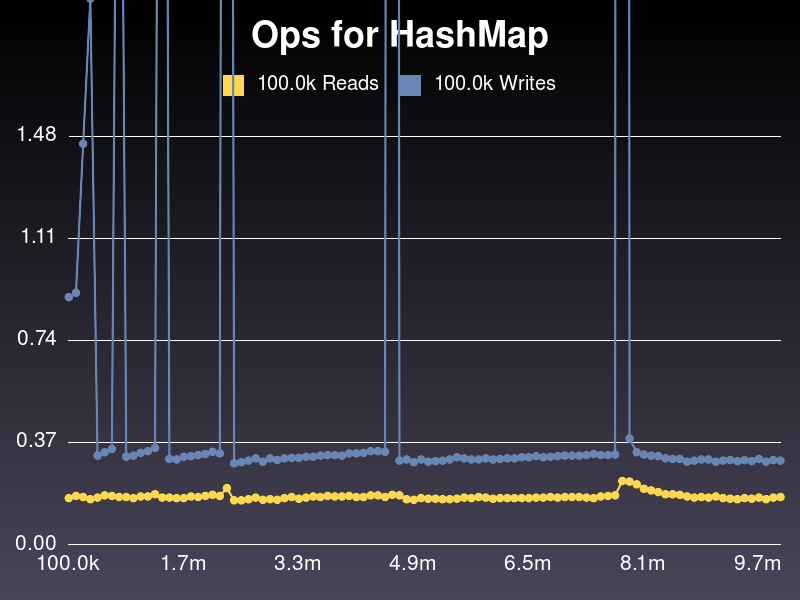
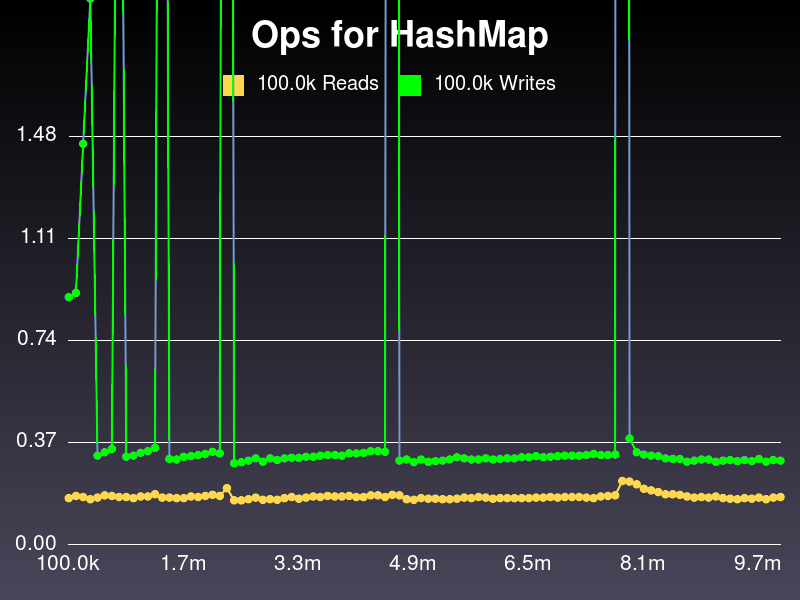
More tweaks before conference

Changed region(s): [[0.125, 0.0, 1.0, 0.78], [0.0625, 0.0, 0.1562, 0.51]]

diff --git a/custom_style.css b/custom_style.css
@@ -1,6 +1,7 @@
 .content .attribution { 
   display: block;
   font-size: 0.5em;
+  color: #999;
 }
 .content img.sidebyside {
   width: 40%;

diff --git a/TODO.md b/TODO.md
@@ -1,41 +1,5 @@
-# TODO
-
-## Talk about https://en.wikipedia.org/wiki/Amortized_analysis
-
-Yeah
-
-## Explain how hash internals relate to databases
-
-Mention database applications. Riak, Cassandra, Voldemort are based on Dynamo. "Like Dynamo, Riak employs consistent hashing to partition and replicate data around the ring."
-
-Dynamo: "Each data item identified by a key is assigned to a node by hashing the data item’s key to yield its position on the ring, and then walking the ring clockwise to find the first node with a position larger than the item’s position. Thus, each node becomes responsible for the region in the ring between it and its predecessor node on the ring. The principle advantage of consistent hashing is that departure or arrival of a node only affects its immediate neighbors and other nodes remain unaffected."
-
-"Scalability: Riak automatically distributes data around the cluster and yields a near-linear performance increase as you add capacity." I might compare this by saying: "Hashes automatically distribute data around the sparse array and yield a near-linear performance increase as you increase the size of the sparse array."
-
-In both cases, you pay a linear performance penalty at the moment you redistribute keys. In case of servers, this is O(N) whether you're adding 1 server or 100. But the more you add at a time, the less often you'll have to add them.
-
-## Investigate Rubinius Hash
-
-- Benchmark with it and see if it performs well
-- If so, step through it and see what secrets I can glean
-
-Also test jRuby's just for fun.
-
-## Ideas to incporporate
-
-- From http://www.cs.cornell.edu/courses/cs312/2008sp/lectures/lec20.html
-  - "a sophisticated implementation can defer the O(n) cost of resizing its hash tables to a point in time when it is convenient to incur it: for example, when the system is idle."
-  - "Load factor" is average elements per bucket = keys.count/sparse_array.length. That's typically the measure for when to rehash; "between 1 and 3" is suggested. Too high and performance suffers; too low and memory is wasted.
-  - A really sophisticated hash would also size down to save memory if enough keys are deleted.
-  - "Because resizing is not visible to the client, it is a benign side effect. Each resizing operation takes O(n) time where n is the size of the hash table being resized. Therefore the O(1) performance of the hash table operations no longer holds in the case of add: its worst-case performance is O(n)."
-  - THE BEST QUOTE: "Each resizing operation takes O(n) time where n is the size of the hash table being resized. Therefore the O(1) performance of the hash table operations no longer holds in the case of add: its worst-case performance is O(n).
-This isn't as much of a problem as it might sound, though it can be an issue for some real-time computing systems. If the bucket array is doubled in size every time it is needed, then the insertion of n elements in a row into an empty array takes only O(n) time, perhaps surprisingly. We say that add has O(1) amortized run time because the time required to insert an element is O(1) on the average even though some elements trigger a lengthy rehashing of all the elements of the hash table.
-To see why this is, suppose we insert n elements into a hash table while doubling the number of buckets when the load factor crosses some threshold. A given element may be rehashed many times, but the total time to insert the n elements is still O(n). Consider inserting n = 2k elements, and suppose that we hit the worst case, where the resizing occurs on the very last element. Since the bucket array is being doubled at each rehashing, the rehashes must all occur at powers of two. The final rehash rehashes all n elements, the previous one rehashes n/2 elements, the one previous to that n/4 elements, and so on. So the total number of hashes computed is n hashes for the actual insertions of the elements, plus n + n/2 + n/4 + n/8 + ... = n(1 + 1/2 + 1/4 + 1/8 + ...) = 2n hashes, for a total of 3n hashing operations.
-No matter how many elements we add to the hash table, there will be at most three hashing operations performed per element added. Therefore, add takes amortized O(1) time even if we start out with a bucket array of one element!"
-- "Notice that it was crucial that the array size grows geometrically (doubling). It is tempting to grow the array by a fixed increment (e.g., 100 elements at time), but this causes n elements to be rehashed O(n) times on average, resulting in O(n2) asymptotic insertion time!"
-
-I declare my hash a success because 1) all hash tables take O(n) time to rehash, including the native Ruby implementation; it is faster and hence has a shallower slope, but it's unavoidably a linear operation, 2) that's OK because the amortized time is still O(1), 3) if we really wanted to get fancy, we could do the work in a thread or something so that you don't feel the insertion lag, 4) if you had a pretty good idea how many keys you would insert, you could start the sparse array large enough so that you didn't have to rehash at all.
-
-## Presentation
-
-- Side-by-side graph comparison - draw lines
+- Decide high points to hit if run out of time
+- Streamline production of raw hash values, maybe cut Critter or just describe as practical application
+- Maybe cut disk vs RAM? Or just describe very briefly. "Because RAM is awesome. On a spinning disk, data that's far away takes longer to get to, but RAM is 'random access'; you just light up the wires to the right address and you get your value in constant time. All you have to know is the address. And Ruby does know the address of an array element."
+- Change writes from blue to "spring" green in Acorn
+- Zoom on surveillance van writing?

diff --git a/notes/more_info.md b/notes/more_info.md
@@ -1,0 +1,25 @@
+# Background Info
+
+## Amortized Analysis
+
+- https://en.wikipedia.org/wiki/Amortized_analysis
+- From http://www.cs.cornell.edu/courses/cs312/2008sp/lectures/lec20.html
+  - "a sophisticated implementation can defer the O(n) cost of resizing its hash tables to a point in time when it is convenient to incur it: for example, when the system is idle."
+  - "Load factor" is average elements per bucket = keys.count/sparse_array.length. That's typically the measure for when to rehash; "between 1 and 3" is suggested. Too high and performance suffers; too low and memory is wasted.
+  - A really sophisticated hash would also size down to save memory if enough keys are deleted.
+  - "Because resizing is not visible to the client, it is a benign side effect. Each resizing operation takes O(n) time where n is the size of the hash table being resized. Therefore the O(1) performance of the hash table operations no longer holds in the case of add: its worst-case performance is O(n)."
+  - THE BEST QUOTE: "Each resizing operation takes O(n) time where n is the size of the hash table being resized. Therefore the O(1) performance of the hash table operations no longer holds in the case of add: its worst-case performance is O(n).
+This isn't as much of a problem as it might sound, though it can be an issue for some real-time computing systems. If the bucket array is doubled in size every time it is needed, then the insertion of n elements in a row into an empty array takes only O(n) time, perhaps surprisingly. We say that add has O(1) amortized run time because the time required to insert an element is O(1) on the average even though some elements trigger a lengthy rehashing of all the elements of the hash table.
+To see why this is, suppose we insert n elements into a hash table while doubling the number of buckets when the load factor crosses some threshold. A given element may be rehashed many times, but the total time to insert the n elements is still O(n). Consider inserting n = 2k elements, and suppose that we hit the worst case, where the resizing occurs on the very last element. Since the bucket array is being doubled at each rehashing, the rehashes must all occur at powers of two. The final rehash rehashes all n elements, the previous one rehashes n/2 elements, the one previous to that n/4 elements, and so on. So the total number of hashes computed is n hashes for the actual insertions of the elements, plus n + n/2 + n/4 + n/8 + ... = n(1 + 1/2 + 1/4 + 1/8 + ...) = 2n hashes, for a total of 3n hashing operations.
+No matter how many elements we add to the hash table, there will be at most three hashing operations performed per element added. Therefore, add takes amortized O(1) time even if we start out with a bucket array of one element!"
+- "Notice that it was crucial that the array size grows geometrically (doubling). It is tempting to grow the array by a fixed increment (e.g., 100 elements at time), but this causes n elements to be rehashed O(n) times on average, resulting in O(n2) asymptotic insertion time!"
+
+## Distributed Hash Tables
+
+Database applications: Riak, Cassandra, Voldemort are based on Dynamo. "Like Dynamo, Riak employs consistent hashing to partition and replicate data around the ring."
+
+Dynamo: "Each data item identified by a key is assigned to a node by hashing the data item’s key to yield its position on the ring, and then walking the ring clockwise to find the first node with a position larger than the item’s position. Thus, each node becomes responsible for the region in the ring between it and its predecessor node on the ring. The principle advantage of consistent hashing is that departure or arrival of a node only affects its immediate neighbors and other nodes remain unaffected."
+
+"Scalability: Riak automatically distributes data around the cluster and yields a near-linear performance increase as you add capacity." I might compare this by saying: "Hashes automatically distribute data around the sparse array and yield a near-linear performance increase as you increase the size of the sparse array."
+
+In both cases, you pay a linear performance penalty at the moment you redistribute keys. In case of servers, this is O(N) whether you're adding 1 server or 100. But the more you add at a time, the less often you'll have to add them.

diff --git a/hash_map/01_implementation.md b/hash_map/01_implementation.md
@@ -43,8 +43,6 @@ A sparse array:
       nil...
     ]
 
-(But this re-introduces our scaling problem...)
-
 ~~~SECTION:notes~~~
 For a nice interface, use TupleMap!
 
@@ -152,32 +150,12 @@ Sparse array size 3.
 !SLIDE
 # Growth Strategy
 
-## Double size?
-
-!SLIDE
-# Solution: Ensure size is prime
-
 ## Double size, then find the next prime
 
 (Eg: 199, 401, 809, 1619, 3251, 6521...)
 
 !SLIDE
-# Proof
-
-    @@@ Ruby
-    # Raw digest values
-    r = (10_000...20_000)
-
-    # Re-collisions with non-prime sizes
-    r.select {|i| i % 200 == i % 400 }.count
-    #=> 5000
-
-    # Re-collisions with prime sizes
-    r.select {|i| i % 199 == i % 401 }.count
-    #=> 0
-
-!SLIDE
-# Whence the Raw Digest Value?
+# Whence the Raw Digest?
 
 Remember:
 
@@ -298,15 +276,6 @@ Ruby uses the `#hash` method for this.
     hash[opossum1]    = 'tricky'
     hash[opossum2]  #=> 'tricky'
 
-!SLIDE
-# (Bonus Tip)
-
-`.hash` is also used by `Set` to determine uniqueness
-
-!SLIDE
-# OK - It works!
-
-![Passing Tests](passing_tests.png)
 
 !SLIDE
 # Review

diff --git a/intro/02_joke_setup.md b/intro/02_joke_setup.md
@@ -42,6 +42,3 @@
 <span class="attribution">Copyright (c) 2010 Brandon Bartoszek. Used by permission.</a>
 <!-- http://www.flickr.com/photos/eridony/4969156992/ -->
 <!-- left comment asking for permission to use - he responded that it was fine -->
-
-!SLIDE
-# Welp, duty calls!

diff --git a/hash_map/02_analysis.md b/hash_map/02_analysis.md
@@ -78,5 +78,4 @@ Not a language issue, an algo issue. C might change Y but not shape.
 # Applications
 
 - Hashes are O(1) multi-tool
-- Re-hashing also stinks in distributed hash tables
-
+- Dynamo DBs (Riak, Cassandra) are "distributed hash tables"

diff --git a/notes/talking_notes.md b/notes/talking_notes.md
@@ -1,3 +1,9 @@
+# General
+
+- DESCRIBE AXES and graphs
+- Excitement! Confidence! ...Chutzpah? ...Vigor!?... Excitement! :)
+- More off-the-cuff while slide stays the same
+
 # Orders of growth
 
 Wave O(1), handshakes O(N), introductions O(N**2)

diff --git a/tuple_map/01_guts.md b/tuple_map/01_guts.md
@@ -29,8 +29,3 @@
     h = TupleMap.new
     h['hokey']   = 'pokey'
     h['hokey']  #=> 'pokey'
-
-!SLIDE
-# Passing Tests
-![Passing Tests](passing_tests.png)
-
